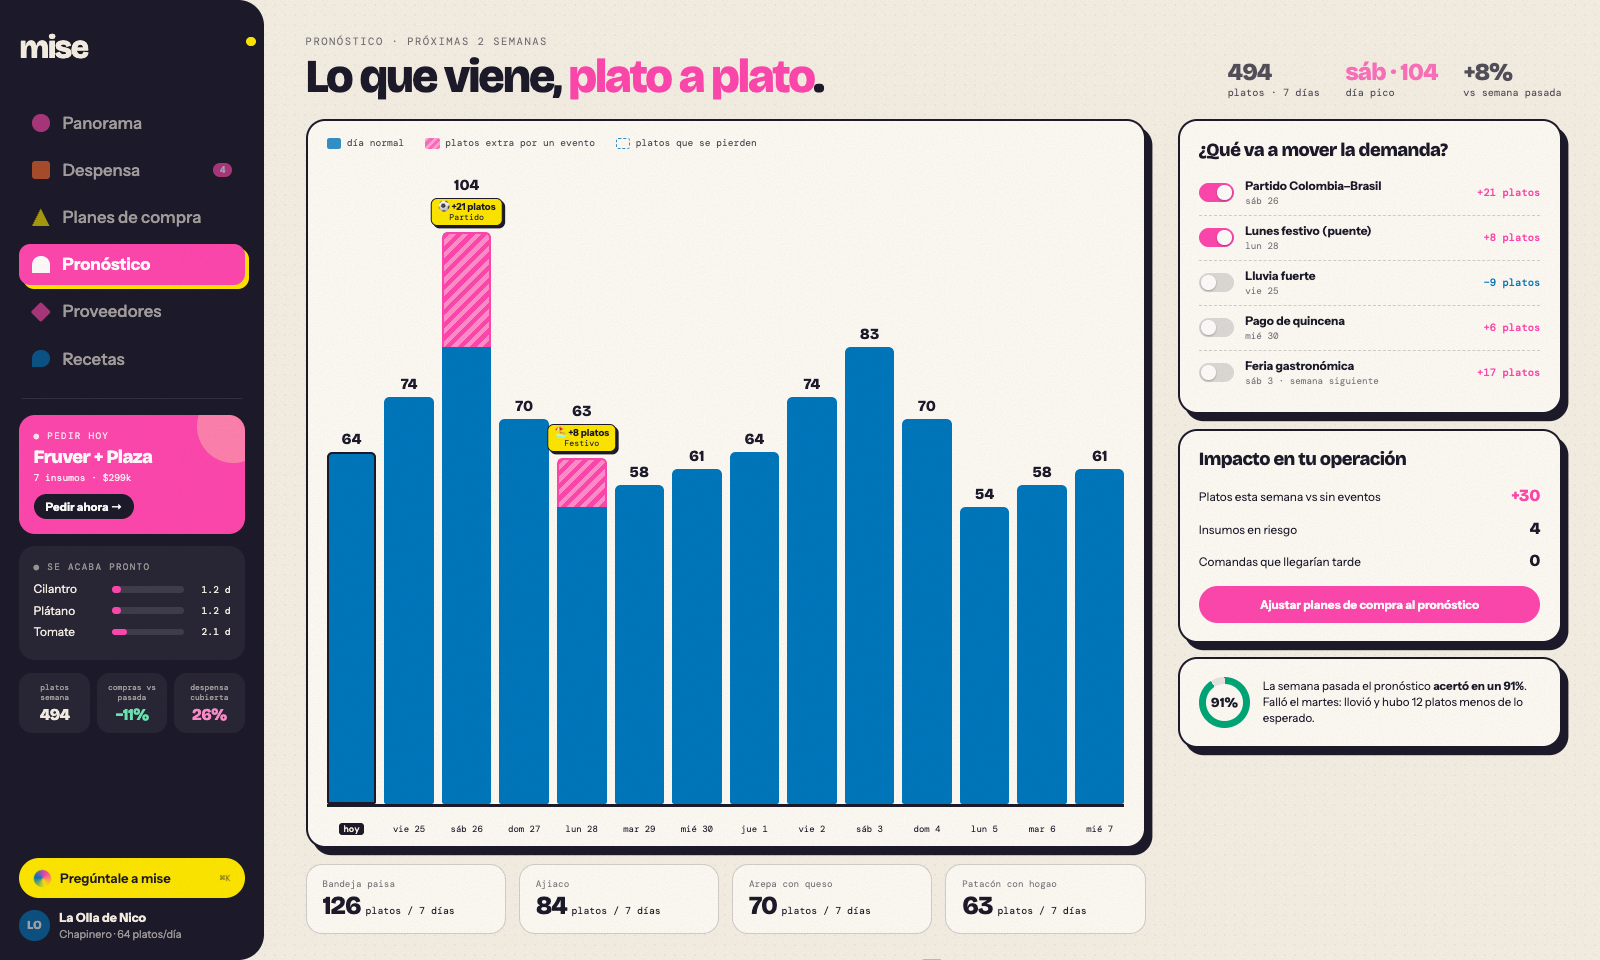
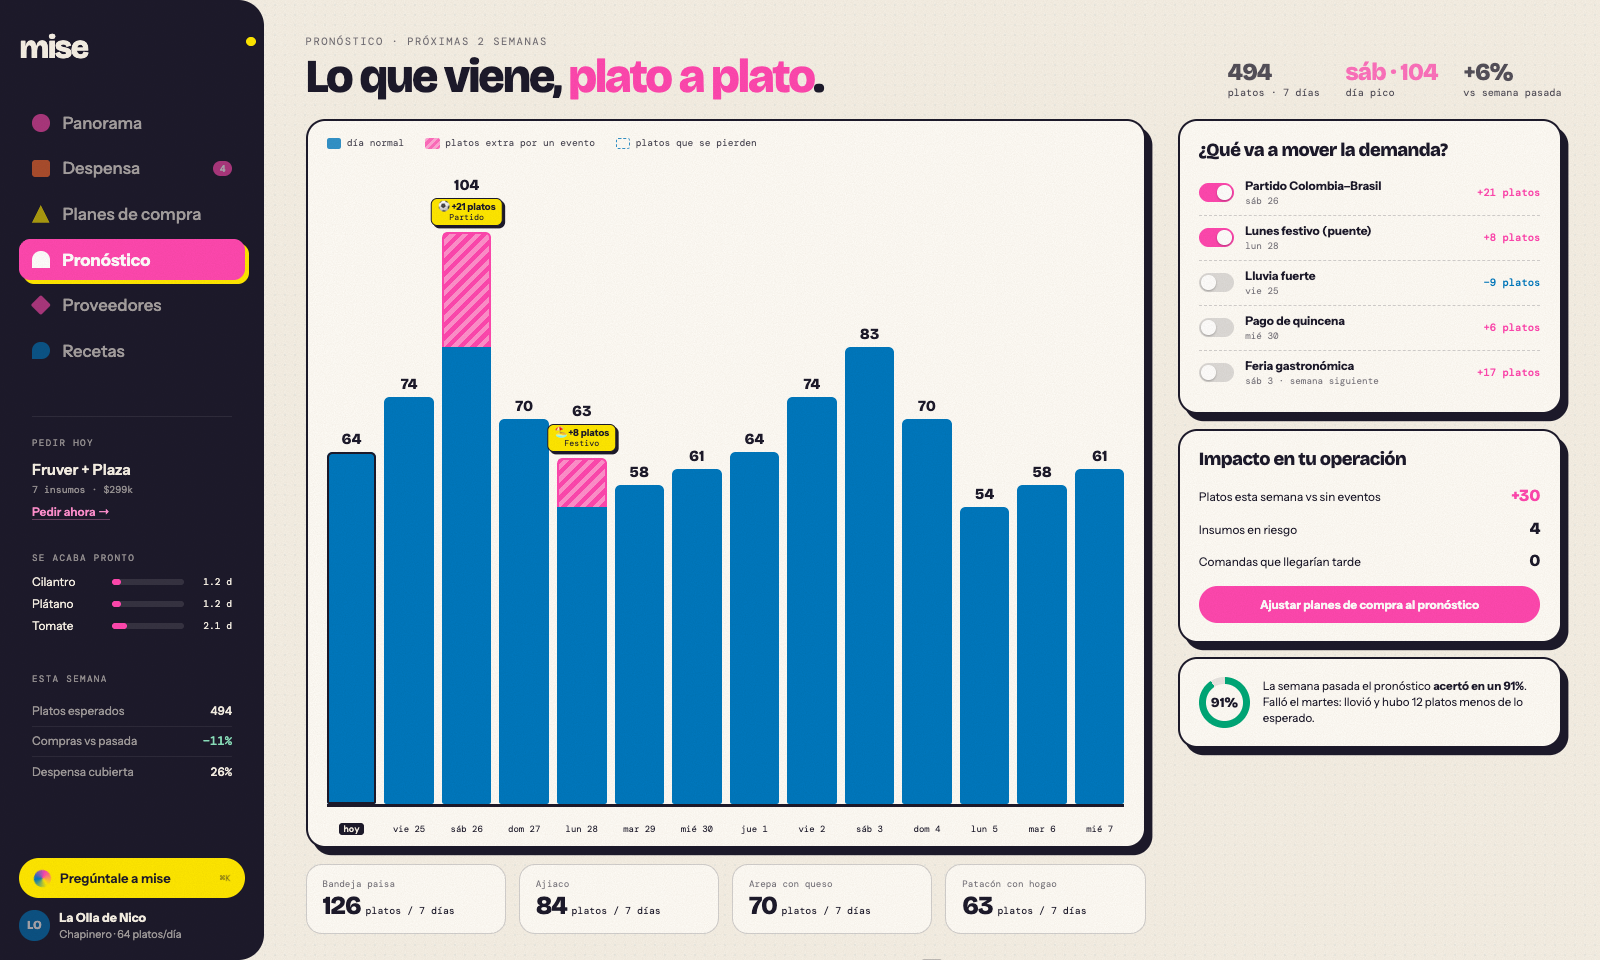
Presentar la información de la barra lateral de forma sutil
Sin bloques de color: etiquetas, valores y líneas finas, con más
espacio entre la navegación y cada grupo.

diff --git a/docs/design/prototipo/mise-prototipo.html b/docs/design/prototipo/mise-prototipo.html
@@ -26,7 +26,7 @@
   .side { position:relative; z-index:6; width:16.5%; padding:2vw 1.2vw 1.2vw; background:var(--ink); color:var(--paper); border-radius:0 1.6vw 1.6vw 0; display:flex; flex-direction:column; flex:none; }
   .brand { font-family:'Bricolage Grotesque'; font-weight:800; font-size:2vw; letter-spacing:-.05em; line-height:1; position:relative; display:inline-block; }
   .brand::after { content:''; position:absolute; right:-.7vw; top:.3vw; width:.6vw; height:.6vw; border-radius:50%; background:var(--yl); }
-  .nav { list-style:none; display:flex; flex-direction:column; gap:.4vw; margin-top:2.4vw; }
+  .nav { list-style:none; display:flex; flex-direction:column; gap:.3vw; margin-top:2.4vw; }
   .nav li { display:flex; align-items:center; gap:.8vw; font-size:1.05vw; font-weight:500; padding:.65vw .8vw; border-radius:.7vw; cursor:pointer; transition:.2s; opacity:.62; }
   .nav li:hover { opacity:1; background:#ffffff10; }
   .nav li.cur { opacity:1; background:var(--pk); color:#fff; font-weight:700; box-shadow:.25vw .25vw 0 var(--yl); }
@@ -36,23 +36,22 @@
   .ic.c{border-radius:50%} .ic.s{border-radius:.2vw} .ic.t{clip-path:polygon(50% 0,100% 100%,0 100%)} .ic.h{border-radius:50% 50% 0 0} .ic.d{transform:rotate(45deg) scale(.8);border-radius:.15vw} .ic.p{border-radius:50% 50% 50% 0}
   .ct { margin-left:auto; font-family:'DM Mono'; font-size:.6vw; padding:.05vw .4vw; border-radius:99px; background:var(--pk); color:#fff; }
   .nav li.cur .ct { background:var(--ink); }
-  .soon { margin-top:.8vw; padding:.9vw; border-radius:1vw; background:#ffffff0d; }
+  .soon { }
   .side > * { flex-shrink:0; }
-  .sbhr { height:1px; background:#ffffff1a; margin:1.2vw .2vw 1vw; }
-  .sbped { padding:.9vw; border-radius:1vw; background:var(--pk); color:#fff; position:relative; overflow:hidden; cursor:pointer; transition:transform .2s; }
-  .sbped:hover { transform:translateY(-2px); }
-  .sbped::after { content:''; position:absolute; right:-1.6vw; top:-1.6vw; width:4.6vw; height:4.6vw; border-radius:50%; background:var(--yl); opacity:.35; mix-blend-mode:screen; }
-  .sbped .sect { opacity:.85; margin-bottom:.35vw; }
-  .sbped b { display:block; font-family:'Bricolage Grotesque'; font-weight:800; font-size:1.15vw; letter-spacing:-.03em; line-height:1.1; position:relative; z-index:1; }
-  .sbped small { display:block; font-family:'DM Mono'; font-size:.6vw; opacity:.9; margin-top:.25vw; position:relative; z-index:1; }
-  .sbped .go { display:inline-block; margin-top:.6vw; font-weight:700; font-size:.72vw; background:var(--ink); color:#fff; padding:.35vw .75vw; border-radius:99px; position:relative; z-index:1; }
-  .sbped.ok { background:#ffffff0d; color:var(--paper); } .sbped.ok::after { display:none; } .sbped.ok b { color:#6ee7b7; }
-  .sbmet { display:grid; grid-template-columns:repeat(3,1fr); gap:.4vw; margin-top:.8vw; }
-  .sbmet div { padding:.55vw .5vw; text-align:center; border-radius:.8vw; background:#ffffff0d; }
-  .sbmet small { display:block; font-family:'DM Mono'; font-size:.5vw; opacity:.6; line-height:1.3; }
-  .sbmet b { display:block; font-family:'Bricolage Grotesque'; font-weight:800; font-size:1vw; letter-spacing:-.03em; margin-top:.15vw; }
+  .sbinfo { margin:auto 0; display:flex; flex-direction:column; gap:2vw; padding:2.2vw .8vw 1.8vw; position:relative; }
+  .sbinfo::before { content:''; position:absolute; left:.8vw; right:.8vw; top:.9vw; height:1px; background:#ffffff14; }
+  .sbg .sect { margin-bottom:.7vw; }
+  .sbped b { display:block; font-size:.95vw; font-weight:600; }
+  .sbped small { display:block; font-family:'DM Mono'; font-size:.62vw; opacity:.55; margin-top:.25vw; }
+  .sbped a { display:inline-block; margin-top:.55vw; font-size:.74vw; font-weight:600; color:#ff8fcf; cursor:pointer; text-decoration:none; border-bottom:1px solid #ff8fcf55; }
+  .sbped a:hover { border-bottom-color:#ff8fcf; }
+  .sbped.ok b { color:#8be3bf; }
+  .sbstat { display:flex; justify-content:space-between; align-items:baseline; padding:.42vw 0; border-bottom:1px solid #ffffff12; font-size:.74vw; }
+  .sbstat:last-child { border-bottom:0; }
+  .sbstat span { opacity:.6; }
+  .sbstat b { font-family:'DM Mono'; font-weight:500; font-size:.76vw; }
   .sect { font-family:'DM Mono'; font-size:.58vw; letter-spacing:.14em; text-transform:uppercase; opacity:.55; margin-bottom:.6vw; }
-  .soon .it { display:flex; align-items:center; gap:.5vw; font-size:.74vw; margin-bottom:.45vw; }
+  .soon .it { display:flex; align-items:center; gap:.6vw; font-size:.74vw; margin-bottom:.5vw; }
   .soon .it .nm { width:4.4vw; } .soon .track { flex:1; height:.4vw; border-radius:99px; background:#ffffff1c; overflow:hidden; }
   .soon .track i { display:block; height:100%; border-radius:99px; background:var(--pk); transition:width .6s; }
   .soon .it .dd { font-family:'DM Mono'; font-size:.6vw; width:2.4vw; text-align:right; }
@@ -408,11 +407,11 @@
       <li data-v="proveedores"><span class="ic d" style="background:var(--pk)"></span>Proveedores</li>
       <li data-v="recetas"><span class="ic p" style="background:var(--bl)"></span>Recetas</li>
     </ul>
-    <div class="sbhr"></div>
-    <div class="sbped" id="sbPed"></div>
-    <div class="soon"><div class="sect">● Se acaba pronto</div><div id="soonList"></div></div>
-    <div class="sbmet" id="sbMet"></div>
-    <div class="grow"></div>
+    <div class="sbinfo">
+      <div class="sbg sbped" id="sbPed"></div>
+      <div class="sbg soon"><div class="sect">Se acaba pronto</div><div id="soonList"></div></div>
+      <div class="sbg"><div class="sect">Esta semana</div><div id="sbMet"></div></div>
+    </div>
     <div class="askbtn" id="askOpen"><span class="orb"></span>Pregúntale a mise<kbd>⌘K</kbd></div>
     <div class="who"><span class="av">LO</span><div><b>La Olla de Nico</b><span>Chapinero · 64 platos/día</span></div></div>
   </aside>
@@ -618,15 +617,15 @@ function renderSide(){
   const vis=planes.filter(p=>p.estado!=='descartado'), pend=vis.filter(p=>p.dia===0&&p.estado!=='confirmado');
   const tot=ps=>ps.reduce((s,p)=>s+p.items.reduce((a,it)=>a+it.q*byId[it.id].precio,0),0);
   const ped=document.getElementById('sbPed');
-  ped.className='sbped'+(pend.length?'':' ok');
-  ped.innerHTML=pend.length?`<div class="sect">● Pedir hoy</div><b>${pend.map(p=>PROV[p.prov].n.split(' ')[0]).join(' + ')}</b><small>${pend.reduce((s,p)=>s+p.items.length,0)} insumos · ${money(tot(pend))}</small><span class="go">Pedir ahora →</span>`
-    :`<div class="sect">● Pedir hoy</div><b>Todo pedido ✓</b><small>${vis.filter(p=>p.dia>0&&p.estado!=='confirmado').length} comandas para los próximos días</small>`;
-  ped.onclick=()=>{ if(pend.length){ selP=planes.indexOf(pend[0]); } document.querySelector('.nav li[data-v="planes"]').click(); };
+  ped.className='sbg sbped'+(pend.length?'':' ok');
+  ped.innerHTML=pend.length?`<div class="sect">Pedir hoy</div><b>${pend.map(p=>PROV[p.prov].n.split(' ')[0]).join(' + ')}</b><small>${pend.reduce((s,p)=>s+p.items.length,0)} insumos · ${money(tot(pend))}</small><a id="sbGo">Pedir ahora →</a>`
+    :`<div class="sect">Pedir hoy</div><b>Todo pedido ✓</b><small>${vis.filter(p=>p.dia>0&&p.estado!=='confirmado').length} comandas para los próximos días</small>`;
+  const sg=document.getElementById('sbGo'); if(sg) sg.onclick=()=>{ selP=planes.indexOf(pend[0]); document.querySelector('.nav li[data-v="planes"]').click(); };
   const conf=id=>planes.filter(p=>p.estado==='confirmado').reduce((s,p)=>s+p.items.filter(it=>it.id===id).reduce((a,it)=>a+it.q,0),0);
   const salud=Math.round(I.filter(x=>cov(x)+conf(x.id)/x.cons>=7).length/I.length*100);
   const wk=Array.from({length:7},(_,d)=>platos(d)).reduce((a,b)=>a+b,0);
   const dPct=Math.round((tot(vis)/1900000-1)*100);
-  document.getElementById('sbMet').innerHTML=`<div><small>platos semana</small><b>${wk}</b></div><div><small>compras vs pasada</small><b style="color:${dPct<=0?'#6ee7b7':'#ff8fcf'}">${dPct>0?'+':'−'}${Math.abs(dPct)}%</b></div><div><small>despensa cubierta</small><b style="color:${salud>=75?'#6ee7b7':salud>=50?'var(--yl)':'#ff8fcf'}">${salud}%</b></div>`;
+  document.getElementById('sbMet').innerHTML=`<div class="sbstat"><span>Platos esperados</span><b>${wk}</b></div><div class="sbstat"><span>Compras vs pasada</span><b style="color:${dPct<=0?'#8be3bf':'#ff8fcf'}">${dPct>0?'+':'−'}${Math.abs(dPct)}%</b></div><div class="sbstat"><span>Despensa cubierta</span><b>${salud}%</b></div>`;
 }
 
 /* ================== DESPENSA ================== */

diff --git a/index.html b/index.html
@@ -28,7 +28,7 @@
   .side { position:relative; z-index:6; width:16.5%; padding:2vw 1.2vw 1.2vw; background:var(--ink); color:var(--paper); border-radius:0 1.6vw 1.6vw 0; display:flex; flex-direction:column; flex:none; }
   .brand { font-family:'Bricolage Grotesque'; font-weight:800; font-size:2vw; letter-spacing:-.05em; line-height:1; position:relative; display:inline-block; }
   .brand::after { content:''; position:absolute; right:-.7vw; top:.3vw; width:.6vw; height:.6vw; border-radius:50%; background:var(--yl); }
-  .nav { list-style:none; display:flex; flex-direction:column; gap:.4vw; margin-top:2.4vw; }
+  .nav { list-style:none; display:flex; flex-direction:column; gap:.3vw; margin-top:2.4vw; }
   .nav li { display:flex; align-items:center; gap:.8vw; font-size:1.05vw; font-weight:500; padding:.65vw .8vw; border-radius:.7vw; cursor:pointer; transition:.2s; opacity:.62; }
   .nav li:hover { opacity:1; background:#ffffff10; }
   .nav li.cur { opacity:1; background:var(--pk); color:#fff; font-weight:700; box-shadow:.25vw .25vw 0 var(--yl); }
@@ -38,23 +38,22 @@
   .ic.c{border-radius:50%} .ic.s{border-radius:.2vw} .ic.t{clip-path:polygon(50% 0,100% 100%,0 100%)} .ic.h{border-radius:50% 50% 0 0} .ic.d{transform:rotate(45deg) scale(.8);border-radius:.15vw} .ic.p{border-radius:50% 50% 50% 0}
   .ct { margin-left:auto; font-family:'DM Mono'; font-size:.6vw; padding:.05vw .4vw; border-radius:99px; background:var(--pk); color:#fff; }
   .nav li.cur .ct { background:var(--ink); }
-  .soon { margin-top:.8vw; padding:.9vw; border-radius:1vw; background:#ffffff0d; }
+  .soon { }
   .side > * { flex-shrink:0; }
-  .sbhr { height:1px; background:#ffffff1a; margin:1.2vw .2vw 1vw; }
-  .sbped { padding:.9vw; border-radius:1vw; background:var(--pk); color:#fff; position:relative; overflow:hidden; cursor:pointer; transition:transform .2s; }
-  .sbped:hover { transform:translateY(-2px); }
-  .sbped::after { content:''; position:absolute; right:-1.6vw; top:-1.6vw; width:4.6vw; height:4.6vw; border-radius:50%; background:var(--yl); opacity:.35; mix-blend-mode:screen; }
-  .sbped .sect { opacity:.85; margin-bottom:.35vw; }
-  .sbped b { display:block; font-family:'Bricolage Grotesque'; font-weight:800; font-size:1.15vw; letter-spacing:-.03em; line-height:1.1; position:relative; z-index:1; }
-  .sbped small { display:block; font-family:'DM Mono'; font-size:.6vw; opacity:.9; margin-top:.25vw; position:relative; z-index:1; }
-  .sbped .go { display:inline-block; margin-top:.6vw; font-weight:700; font-size:.72vw; background:var(--ink); color:#fff; padding:.35vw .75vw; border-radius:99px; position:relative; z-index:1; }
-  .sbped.ok { background:#ffffff0d; color:var(--paper); } .sbped.ok::after { display:none; } .sbped.ok b { color:#6ee7b7; }
-  .sbmet { display:grid; grid-template-columns:repeat(3,1fr); gap:.4vw; margin-top:.8vw; }
-  .sbmet div { padding:.55vw .5vw; text-align:center; border-radius:.8vw; background:#ffffff0d; }
-  .sbmet small { display:block; font-family:'DM Mono'; font-size:.5vw; opacity:.6; line-height:1.3; }
-  .sbmet b { display:block; font-family:'Bricolage Grotesque'; font-weight:800; font-size:1vw; letter-spacing:-.03em; margin-top:.15vw; }
+  .sbinfo { margin:auto 0; display:flex; flex-direction:column; gap:2vw; padding:2.2vw .8vw 1.8vw; position:relative; }
+  .sbinfo::before { content:''; position:absolute; left:.8vw; right:.8vw; top:.9vw; height:1px; background:#ffffff14; }
+  .sbg .sect { margin-bottom:.7vw; }
+  .sbped b { display:block; font-size:.95vw; font-weight:600; }
+  .sbped small { display:block; font-family:'DM Mono'; font-size:.62vw; opacity:.55; margin-top:.25vw; }
+  .sbped a { display:inline-block; margin-top:.55vw; font-size:.74vw; font-weight:600; color:#ff8fcf; cursor:pointer; text-decoration:none; border-bottom:1px solid #ff8fcf55; }
+  .sbped a:hover { border-bottom-color:#ff8fcf; }
+  .sbped.ok b { color:#8be3bf; }
+  .sbstat { display:flex; justify-content:space-between; align-items:baseline; padding:.42vw 0; border-bottom:1px solid #ffffff12; font-size:.74vw; }
+  .sbstat:last-child { border-bottom:0; }
+  .sbstat span { opacity:.6; }
+  .sbstat b { font-family:'DM Mono'; font-weight:500; font-size:.76vw; }
   .sect { font-family:'DM Mono'; font-size:.58vw; letter-spacing:.14em; text-transform:uppercase; opacity:.55; margin-bottom:.6vw; }
-  .soon .it { display:flex; align-items:center; gap:.5vw; font-size:.74vw; margin-bottom:.45vw; }
+  .soon .it { display:flex; align-items:center; gap:.6vw; font-size:.74vw; margin-bottom:.5vw; }
   .soon .it .nm { width:4.4vw; } .soon .track { flex:1; height:.4vw; border-radius:99px; background:#ffffff1c; overflow:hidden; }
   .soon .track i { display:block; height:100%; border-radius:99px; background:var(--pk); transition:width .6s; }
   .soon .it .dd { font-family:'DM Mono'; font-size:.6vw; width:2.4vw; text-align:right; }
@@ -406,11 +405,11 @@
       <li data-v="proveedores"><span class="ic d" style="background:var(--pk)"></span>Proveedores</li>
       <li data-v="recetas"><span class="ic p" style="background:var(--bl)"></span>Recetas</li>
     </ul>
-    <div class="sbhr"></div>
-    <div class="sbped" id="sbPed"></div>
-    <div class="soon"><div class="sect">● Se acaba pronto</div><div id="soonList"></div></div>
-    <div class="sbmet" id="sbMet"></div>
-    <div class="grow"></div>
+    <div class="sbinfo">
+      <div class="sbg sbped" id="sbPed"></div>
+      <div class="sbg soon"><div class="sect">Se acaba pronto</div><div id="soonList"></div></div>
+      <div class="sbg"><div class="sect">Esta semana</div><div id="sbMet"></div></div>
+    </div>
     <div class="askbtn" id="askOpen"><span class="orb"></span>Pregúntale a mise<kbd>⌘K</kbd></div>
     <div class="who"><span class="av">LO</span><div><b>La Olla de Nico</b><span>Chapinero · 64 platos/día</span></div></div>
   </aside>
@@ -612,15 +611,15 @@ function renderSide(){
   const vis=planes.filter(p=>p.estado!=='descartado'), pend=vis.filter(p=>p.dia===0&&p.estado!=='confirmado');
   const tot=ps=>ps.reduce((s,p)=>s+p.items.reduce((a,it)=>a+it.q*byId[it.id].precio,0),0);
   const ped=document.getElementById('sbPed');
-  ped.className='sbped'+(pend.length?'':' ok');
-  ped.innerHTML=pend.length?`<div class="sect">● Pedir hoy</div><b>${pend.map(p=>PROV[p.prov].n.split(' ')[0]).join(' + ')}</b><small>${pend.reduce((s,p)=>s+p.items.length,0)} insumos · ${money(tot(pend))}</small><span class="go">Pedir ahora →</span>`
-    :`<div class="sect">● Pedir hoy</div><b>Todo pedido ✓</b><small>${vis.filter(p=>p.dia>0&&p.estado!=='confirmado').length} comandas para los próximos días</small>`;
-  ped.onclick=()=>{ if(pend.length){ selP=planes.indexOf(pend[0]); } document.querySelector('.nav li[data-v="planes"]').click(); };
+  ped.className='sbg sbped'+(pend.length?'':' ok');
+  ped.innerHTML=pend.length?`<div class="sect">Pedir hoy</div><b>${pend.map(p=>PROV[p.prov].n.split(' ')[0]).join(' + ')}</b><small>${pend.reduce((s,p)=>s+p.items.length,0)} insumos · ${money(tot(pend))}</small><a id="sbGo">Pedir ahora →</a>`
+    :`<div class="sect">Pedir hoy</div><b>Todo pedido ✓</b><small>${vis.filter(p=>p.dia>0&&p.estado!=='confirmado').length} comandas para los próximos días</small>`;
+  const sg=document.getElementById('sbGo'); if(sg) sg.onclick=()=>{ selP=planes.indexOf(pend[0]); document.querySelector('.nav li[data-v="planes"]').click(); };
   const conf=id=>planes.filter(p=>p.estado==='confirmado').reduce((s,p)=>s+p.items.filter(it=>it.id===id).reduce((a,it)=>a+it.q,0),0);
   const salud=Math.round(I.filter(x=>cov(x)+conf(x.id)/x.cons>=7).length/I.length*100);
   const wk=Array.from({length:7},(_,d)=>platos(d)).reduce((a,b)=>a+b,0);
   const dPct=Math.round((tot(vis)/1900000-1)*100);
-  document.getElementById('sbMet').innerHTML=`<div><small>platos semana</small><b>${wk}</b></div><div><small>compras vs pasada</small><b style="color:${dPct<=0?'#6ee7b7':'#ff8fcf'}">${dPct>0?'+':'−'}${Math.abs(dPct)}%</b></div><div><small>despensa cubierta</small><b style="color:${salud>=75?'#6ee7b7':salud>=50?'var(--yl)':'#ff8fcf'}">${salud}%</b></div>`;
+  document.getElementById('sbMet').innerHTML=`<div class="sbstat"><span>Platos esperados</span><b>${wk}</b></div><div class="sbstat"><span>Compras vs pasada</span><b style="color:${dPct<=0?'#8be3bf':'#ff8fcf'}">${dPct>0?'+':'−'}${Math.abs(dPct)}%</b></div><div class="sbstat"><span>Despensa cubierta</span><b>${salud}%</b></div>`;
 }
 
 /* ================== DESPENSA ================== */
